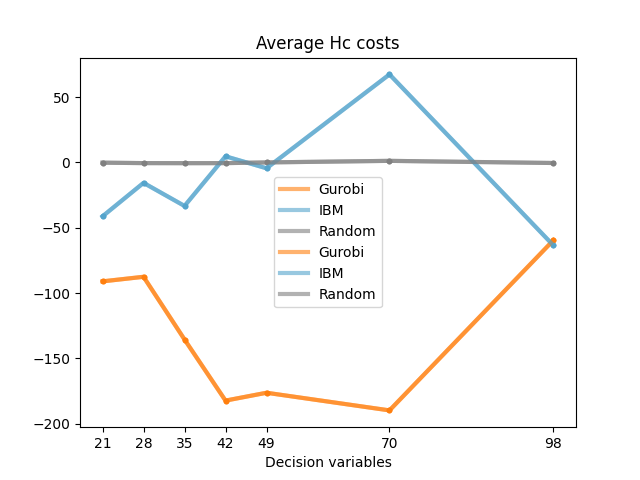
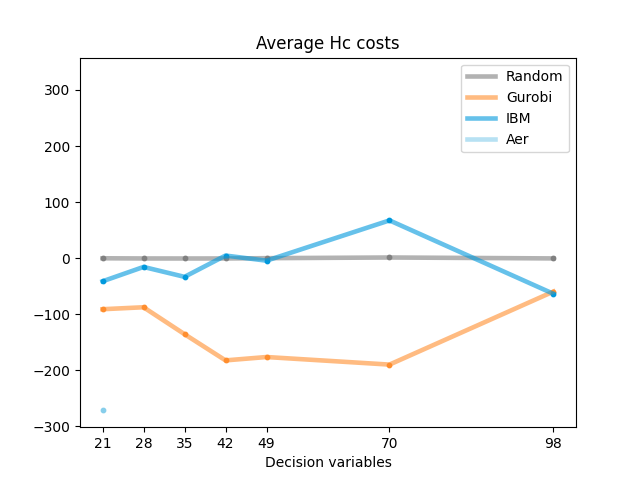
plots

diff --git a/plot_stats_incr.py b/plot_stats_incr.py
@@ -123,7 +123,8 @@ def getPlotlistsIncr(runs, all_data, extra_gurobi):
     return plot_times, plot_distr, plot_Hcs
 
 def plotsIncr(plot_times, plot_Hcs, extra_gurobi=False):
-    colors = {'ibm':'#54A4CC', 'gurobi':'tab:orange', 'aer':'green', 'random':'gray'}
+    #colors = {'ibm':'#54A4CC', 'gurobi':'tab:orange', 'aer':'green', 'random':'gray'}
+    colors = {'gurobi':'#FF8E2E', 'z3':'#FFDD33', 'ibm':'#0099DD', 'aer':'skyblue', 'random':'gray'}
 
     phys_values = list(plot_Hcs.keys())
     phys_values.sort()
@@ -134,13 +135,14 @@ def plotsIncr(plot_times, plot_Hcs, extra_gurobi=False):
     xlabels = [i*7 for i in xticks]
     alp=0.6
     siz = 10
+    lw = 3.3
 
     # TIMES
     plt.figure()
     plt.title(f'Computation times')
-    plt.plot(xticks[:len(plot_times['gurobi'])], plot_times['gurobi'], linewidth=3, label='Gurobi', color = colors['gurobi'], alpha=alp)
-    plt.plot(xticks[:len(plot_times['ibm'])], plot_times['ibm'], label = 'IBM',linewidth=3, color = colors['ibm'], alpha=alp)
-    plt.plot(xticks[:len(plot_times['aer'])], plot_times['aer'], label = 'Aer',linewidth=3, color = colors['aer'], alpha=alp)
+    plt.plot(xticks[:len(plot_times['gurobi'])], plot_times['gurobi'], linewidth=lw, label='Gurobi', color = colors['gurobi'], alpha=alp)
+    plt.plot(xticks[:len(plot_times['ibm'])], plot_times['ibm'], label = 'IBM',linewidth=lw, color = colors['ibm'], alpha=alp)
+    plt.plot(xticks[:len(plot_times['aer'])], plot_times['aer'], label = 'Aer',linewidth=lw, color = colors['aer'], alpha=alp)
     # dots
     plt.scatter(xticks[:len(plot_times['gurobi'])], plot_times['gurobi'], s=siz, color = colors['gurobi'])
     plt.scatter(xticks[:len(plot_times['ibm'])], plot_times['ibm'], s=siz, color = colors['ibm'])
@@ -157,19 +159,18 @@ def plotsIncr(plot_times, plot_Hcs, extra_gurobi=False):
     # Avg Hc
     plt.figure()
     plt.title(f'Average Hc costs')
-    plt.plot(xticks[:len(plot_Hcs['gurobi'])], plot_Hcs['gurobi'], linewidth=3, label='Gurobi', color = colors['gurobi'], alpha=alp)
-    plt.plot(xticks[:len(plot_Hcs['ibm'])], plot_Hcs['ibm'], linewidth=3, label='IBM', color = colors['ibm'], alpha=alp)
-    plt.plot(xticks[:len(plot_Hcs['random'])], plot_Hcs['random'], linewidth=3, label='Random', color = colors['random'], alpha=alp)
-    plt.plot(xticks[:len(plot_Hcs['gurobi'])], plot_Hcs['gurobi'], linewidth=3, label='Gurobi', color = colors['gurobi'], alpha=alp)
-    plt.plot(xticks[:len(plot_Hcs['ibm'])], plot_Hcs['ibm'], linewidth=3, label='IBM', color = colors['ibm'], alpha=alp)
-    plt.plot(xticks[:len(plot_Hcs['random'])], plot_Hcs['random'], linewidth=3, label='Random', color = colors['random'], alpha=alp)
+    plt.plot(xticks[:len(plot_Hcs['random'])], plot_Hcs['random'], linewidth=lw, label='Random', color = colors['random'], alpha=alp)
+    plt.plot(xticks[:len(plot_Hcs['gurobi'])], plot_Hcs['gurobi'], linewidth=lw, label='Gurobi', color = colors['gurobi'], alpha=alp)
+    plt.plot(xticks[:len(plot_Hcs['ibm'])], plot_Hcs['ibm'], linewidth=lw, label='IBM', color = colors['ibm'], alpha=alp)
+    plt.plot(xticks[:len(plot_Hcs['aer'])], plot_times['aer'], label = 'Aer',linewidth=lw, color = colors['aer'], alpha=alp)
+
+
     # dots
-    plt.scatter(xticks[:len(plot_Hcs['gurobi'])], plot_Hcs['gurobi'], s=siz, color = colors['gurobi'])
-    plt.scatter(xticks[:len(plot_Hcs['ibm'])], plot_Hcs['ibm'], s=siz, color = colors['ibm'])
     plt.scatter(xticks[:len(plot_Hcs['random'])], plot_Hcs['random'], s=siz, color = colors['random'])
     plt.scatter(xticks[:len(plot_Hcs['gurobi'])], plot_Hcs['gurobi'], s=siz, color = colors['gurobi'])
     plt.scatter(xticks[:len(plot_Hcs['ibm'])], plot_Hcs['ibm'], s=siz, color = colors['ibm'])
-    plt.scatter(xticks[:len(plot_Hcs['random'])], plot_Hcs['random'], s=siz, color = colors['random'])
+    plt.scatter(xticks[:len(plot_Hcs['aer'])], plot_Hcs['aer'], s=siz, color = colors['aer'])
+
 
     plt.legend()
     plt.xticks(ticks=xticks, labels=xlabels)
@@ -180,7 +181,9 @@ def plotsIncr(plot_times, plot_Hcs, extra_gurobi=False):
 
 def plotDistributions(n_phys):
     methods = [ 'random','ibm', 'gurobi']
-    colors = {'ibm':'#64B4DC', 'gurobi':'tab:orange', 'aer':'green', 'random':'gray'}
+    #colors = {'ibm':'#64B4DC', 'gurobi':'tab:orange', 'aer':'green', 'random':'gray'}
+    colors = {'gurobi':'#FF8E2E', 'z3':'#FFDD33', 'ibm':'#0099DD', 'aer':'skyblue', 'random':'gray'}
+
     for j, method in enumerate(methods):
         run_data = all_data[(method, n_phys)]['run']
         
@@ -208,14 +211,14 @@ def plotDistributions(n_phys):
                 f.close()
 
         if method != 'gurobi':
-            plt.hist(all_costs, bins=50, label=method, color=colors[method], alpha=0.5)
+            plt.hist(all_costs, bins=50, label=method.capitalize(), color=colors[method], alpha=0.3)
 
     for method in methods:
         run_data = all_data[(method, n_phys)]['run']
         try:
-            plt.axvline(x=run_data['Hc full'], color=colors[method], linestyle=':', linewidth=2, label=f'{method} avg.')
+            plt.axvline(x=run_data['Hc full'], color=colors[method], linestyle=':', linewidth=2, label=f'{method.capitalize()} avg.')
         except:
-            plt.axvline(x=run_data['avg Hc'], color=colors[method], linestyle=':', linewidth=2, label=f'{method} avg.')
+            plt.axvline(x=run_data['avg Hc'], color=colors[method], linestyle=':', linewidth=2, label=f'{method.capitalize()} avg.')
 
     
     #plt.text(-50, 27000, 'avg',  ha='center', va='bottom', rotation=90, color='gray')

diff --git a/plot_stats_june.py b/plot_stats_june.py
@@ -10,7 +10,7 @@ from qaoa.qaoa import QToHc, costOfBitstring
         # gurobi
         # z3
     # samma phys
-'''
+
 def combineDataJune(backend, n_physicians, timestamp):
     print(f'\nSorting data for JUNE run on {backend}, {n_physicians} physicians at time {timestamp}')
 
@@ -71,7 +71,7 @@ def plotDataJune(method:str, schedule=True):
         evaluator_m = Evaluator(all_data[method]['schedule'], cl, time_period, lambdas, physician_path='data/intermediate/physician_universal_june.csv') # TODO: should be same prefs & exts as: f'data/results/physician/{method}_15phys_time{timestamps[method]}.csv'
         evaluator_m.makeResultMatrix()
         evaluator_m.evaluateConstraints(1)
-        fig = evaluator_m.cleanPlot(width=10,title=f'June schedule using {method}', tile_col = colors[method])
+        fig = evaluator_m.cleanPlot(width=10,title=f'June schedule using {str(method).capitalize()}', tile_col = colors[method])
         fig.savefig(f'data/results/final_plots/june/schedules/{method}_final_schedule.png')
 
 
@@ -94,16 +94,15 @@ def plotStats(plot_data, methods, title='', ylabel=''):
     plt.show()
 
 n_physicians = 15 # SHOULD BE 15 
-methods = ['z3', 'gurobi'] #'aer', 'ibm', 'gurobi']   #, 'ibm', 'gurobi', 'z3'] #maybe not z3
+methods = ['aer', 'gurobi', 'ibm'] #'aer', 'ibm', 'gurobi']   #, 'ibm', 'gurobi', 'z3'] #maybe not z3
 all_data = {}
 time_period = 'all'
 cl = 3
 lambdas = {'demand':3, 'fair':10, 'pref':5, 'unavail':15, 'extent':8, 'rest':0, 'titles':5, 'memory':3} 
 physician_universal_june = pd.read_csv('data/intermediate/physician_universal_june.csv', index_col=None)
 
-timestamps = {'aer':1746722550,'ibm':1746706255,'gurobi':1747062967,'z3':1747063119}
-
-#timestamps = {'aer':1746722550,'ibm':1746706255,'gurobi':1746970615,'z3':1747063119}
+#timestamps = {'aer':1746722550,'ibm':1746706255,'gurobi':1747062967,'z3':1747063119}
+timestamps = {'aer':1746722550,'ibm':1746706255,'gurobi':1746970615}#,'z3':1747063119}
 times_plot, Hcs_plot, manys_plot, fews_plot, titles_plot, sat_avgs_plot, sat_vars_plot, extents_plot, unavails_plot, physicians_compare  = [], [],[], [],[], [],[], [],[], []
 for method in methods:
     #if method =='z3':
@@ -113,6 +112,9 @@ for method in methods:
 for method in methods:
     printDataJune(method)
     plotDataJune(method, schedule=True) # Plot schedule and append stats to lists
+
+
+
 
 """
 plotStats(times_plot, methods, title='Full computation time', ylabel='Time [s]')
@@ -135,7 +137,9 @@ if 'aer' in methods and 'ibm' in methods:
 
 cl, time_period, lambdas = 3, 'all', {'demand':3, 'fair':10, 'pref':5, 'unavail':15, 'extent':8, 'rest':0, 'titles':5, 'memory':3} 
 
-def plotShortSchedule(method, schedule):
+
+
+"""def plotShortSchedule(method, schedule):
 
     # PLOT SCHEDULE
     evaluator_m = Evaluator(schedule, cl, time_period, lambdas, physician_path='data/intermediate/physician_universal_june.csv') # TODO: should be same prefs & exts as: f'data/results/physician/{method}_15phys_time{timestamps[method]}.csv'
@@ -148,4 +152,4 @@ z3_schedule = pd.read_csv('data/results/schedules/z3_15phys_time1747063119.csv',
 plotShortSchedule('z3', z3_schedule)
 
 g_schedule = pd.read_csv('data/results/schedules/gurobi_15phys_time1747062967.csv',index_col=None)
-plotShortSchedule('gurobi', g_schedule)
+plotShortSchedule('gurobi', g_schedule)"""

diff --git a/plot classical scaling.py b/plot classical scaling.py
@@ -1,0 +1,49 @@
+import matplotlib.pyplot as plt
+import pandas as pd
+g_scaling = pd.read_csv('data/results/Classical scaling/gurobi_scaling_results_updated.csv', index_col=None)
+z_scaling = pd.read_csv('data/results/Classical scaling/z3_scaling_results (1).csv', index_col=None)
+
+colors = {'gurobi':'#FF8E2E', 'z3':'#FFDD33'}
+alp=0.8
+siz = 15
+'''
+# TIMES & MEMORY
+plt.figure()
+x_ticks = g_scaling['physicians']
+x_labels = x_ticks*14 # NOTE assuming 14 days
+plt.plot(g_scaling['physicians'], g_scaling['peak_memory_MB'], linewidth=3, label='Gurobi', color = colors['gurobi'], alpha=alp)
+plt.plot(z_scaling['physicians'], z_scaling['peak_memory_MB'], linewidth=3, label='Z3', color = colors['z3'], alpha=alp)
+
+# dots
+plt.scatter(g_scaling['physicians'], g_scaling['peak_memory_MB'], s=siz, color = colors['gurobi'])
+plt.scatter(z_scaling['physicians'], z_scaling['peak_memory_MB'], s=siz, color = colors['z3'])
+plt.xlabel('Number of Variables')
+plt.ylabel('Peak Memory Usage [MB]')
+plt.xticks(ticks=x_ticks, labels = x_labels)
+plt.title('Peak memory usage vs. Problem Size')
+plt.legend()
+plt.savefig('data/results/final_plots/classical/classical_scaling_memory_vars.png')
+plt.show()'''
+
+from postprocessing.postprocessing import Evaluator
+cl = 3
+time_period = 'all'
+lambdas = {'demand':3, 'fair':10, 'pref':5, 'unavail':15, 'extent':8, 'rest':0, 'titles':5, 'memory':3} 
+
+g_schedule = pd.read_csv('data/results/Classical scaling/gurobi_10phys_time1747077477.csv', index_col=None)
+z_schedule = pd.read_csv('data/results/Classical scaling/z3_10phys_time1747077372.csv', index_col=None)
+
+
+# SCHEDULES
+evaluator_m = Evaluator(g_schedule, cl, time_period, lambdas, physician_path='data/intermediate/10physician_data.csv') # TODO: should be same prefs & exts as: f'data/results/physician/{method}_15phys_time{timestamps[method]}.csv'
+evaluator_m.makeResultMatrix()
+evaluator_m.evaluateConstraints(1)
+fig = evaluator_m.cleanPlot(width=10)
+fig.savefig(f'data/results/final_plots/classical/gurobi_10phys_schedule.png')
+
+# SCHEDULES
+evaluator_m = Evaluator(z_schedule, cl, time_period, lambdas, physician_path='data/intermediate/10physician_data.csv') # TODO: should be same prefs & exts as: f'data/results/physician/{method}_15phys_time{timestamps[method]}.csv'
+evaluator_m.makeResultMatrix()
+evaluator_m.evaluateConstraints(1)
+fig = evaluator_m.cleanPlot(width=10)
+fig.savefig(f'data/results/final_plots/classical/z3_10phys_schedule.png')

diff --git a/main.py b/main.py
@@ -20,17 +20,17 @@ pd.set_option('display.max_columns', None)
 pd.set_option('display.expand_frame_repr', False)
 
 use_qaoa = True
-backend = 'ibm'
+backend = 'aer'
 
 use_classical = not use_qaoa
 solver = 'z3'
 
-increasing_qubits = True
+increasing_qubits = False
 
 # Parameters
 start_date = '2025-06-01' 
 end_date = '2025-06-28'
-n_physicians = 15
+n_physicians =  15 
 cl = 3               # complexity level: 
 cl_contents = ['',
 'cl1: demand, fairness',
@@ -50,7 +50,7 @@ if use_classical:
 Ns = 3
 n_layers = 2
 search_iterations = 20
-estimation_iterations = 1000
+estimation_iterations = 2000
 sampling_iterations = 4000
 n_candidates = 50 # compare top X most common solutions
 init_seed = True
@@ -78,9 +78,14 @@ full_solution = []
 # PHYSICIAN
 # preferences, titles etc.
 generatePhysicianData(all_dates_df, n_physicians, cl, seed=preference_seed, only_fulltime=only_fulltime)  
+convertPreferences(all_dates_df,0)
+universal = pd.read_csv(f'data/intermediate/physician_universal_june.csv')
+names = universal['name']
 physician_df = pd.read_csv(f'data/intermediate/physician_data.csv')
+physician_df['name'] = names[:10]
+physician_df.to_csv('data/intermediate/10physician_data.csv', index=None)#TEMPORARY
 
-# DEMAND  
+'''# DEMAND  
 if shiftsPerWeek(cl)==7:    
     # Set from amount of workers and their extent
     target_n_shifts_total_per_week = sum(targetShiftsPerWeek(physician_df['extent'].iloc[p], cl) for p in range(n_physicians)) 
@@ -389,6 +394,4 @@ if use_qaoa:
 
         ax.legend()
         plt.show()
-        fig.savefig(f'data/results{incr_str}/plots/{backend}_{n_physicians}phys_time{int(start_time)}_satisfaction.png', dpi=300, bbox_inches='tight')
-
-#'''
+        fig.savefig(f'data/results{incr_str}/plots/{backend}_{n_physicians}phys_time{int(start_time)}_satisfaction.png', dpi=300, bbox_inches='tight')'''

diff --git a/postprocessing/postprocessing.py b/postprocessing/postprocessing.py
@@ -353,7 +353,9 @@ class Evaluator:
     def cleanPlot(self, width=10, show_plot=True, title='', tile_col = None):
         x_size = width
         # y_size = 8 
-        y_size = self.n_physicians/self.n_shifts * x_size + 1
+        y_size = self.n_physicians/self.n_shifts * x_size -1 #WAS +1 BEFORE
+        print('\nSIZES')
+        print(x_size, y_size)
         fig, ax = plt.subplots(figsize=(x_size,y_size))
         if tile_col == 'skyblue':
             cmap = ListedColormap(['white', '#505050'])
@@ -376,8 +378,8 @@ class Evaluator:
                 prefer_colors = np.where(self.prefer_matrix.flatten()==-2,'red',prefer_colors) # unavailable
 
                 x, y = np.meshgrid(np.arange(self.n_shifts), np.arange(self.n_physicians)) 
-                scale_squares = 1#/3 # Should be = 1 for full-size squares
-                pref_squares = ax.scatter(x.ravel(), y.ravel(), s=(50*scale_squares*(x_size/self.n_shifts))**2, c='none',marker='s', linewidths=4*scale_squares, edgecolors=prefer_colors) 
+                scale_squares = 0.8#/3 # Should be = 1 for full-size squares
+                pref_squares = ax.scatter(x.ravel(), y.ravel(), s=(50*scale_squares*(x_size/self.n_shifts))**2, c='none',marker='s', linewidths=3.6*scale_squares, edgecolors=prefer_colors) 
         
         xticks = [i for i in np.arange(self.n_shifts)]
         xlabels = [str(date[-2:])+'/6' for date in self.result_df['date']] # NOTE removed year from ticks
@@ -387,7 +389,7 @@ class Evaluator:
         #ax.spines["right"].set_linewidth(0) # remove right side of frame
         #ax.spines["top"].set_linewidth(0) 
         plt.title(title)
-        plt.subplots_adjust(left=0.15, right=0.95, bottom=0.1) # Adjust padding
+        plt.subplots_adjust(left=0.25, right=0.95, bottom=0.1) # Adjust padding
 
         if show_plot:
             plt.show()
